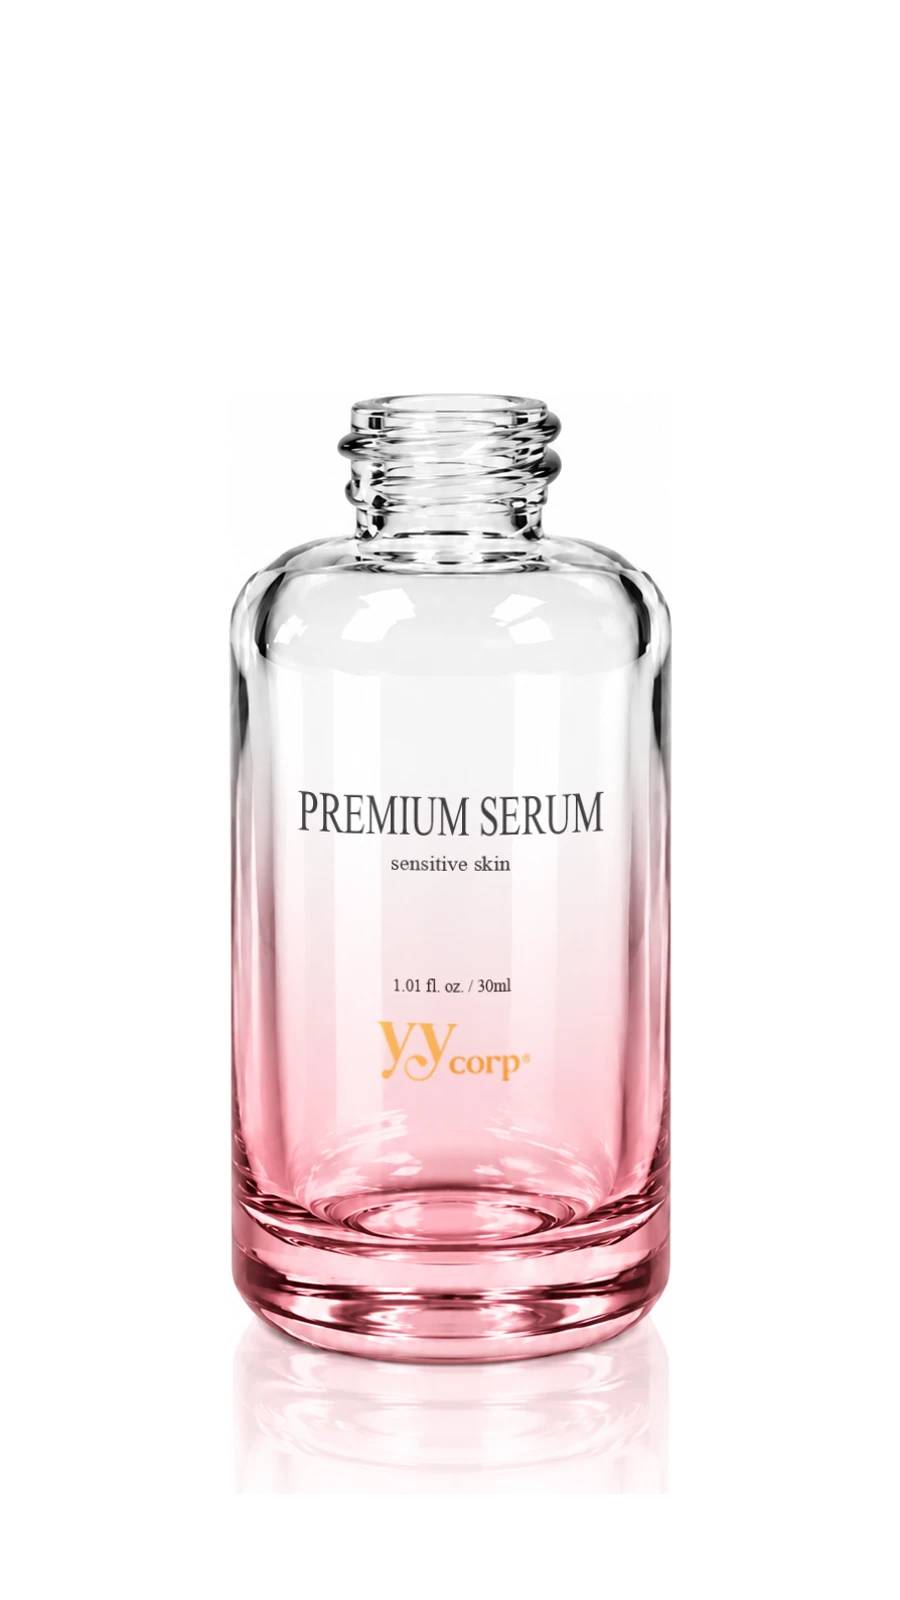
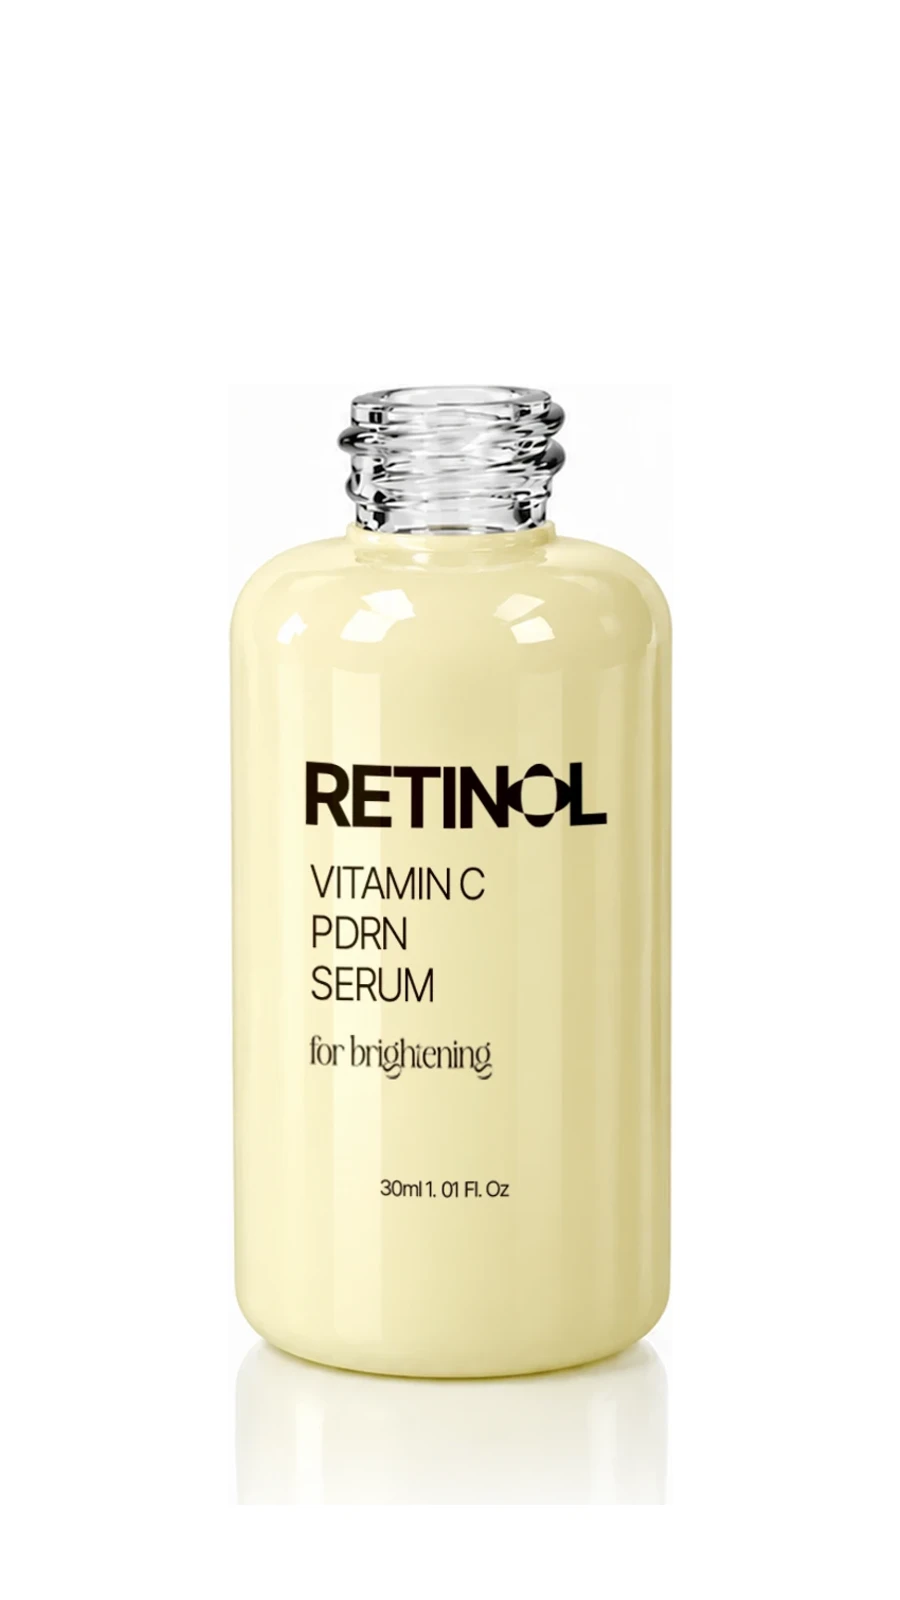
HOME 공정 모션 장면 사진 4장 교체(코팅 · 인쇄 · 부식 · 라벨), 라벨 구간 다시 잼

Changed region(s): [[0.2489, 0.2188, 0.7467, 0.9062]]

diff --git a/src/data/home.ts b/src/data/home.ts
@@ -56,7 +56,7 @@ export const processScene = {
   dropperCap: "dropperCap" as AssetId,
   dropperPipette: "dropperPipette" as AssetId,
   /** 라벨이 피펫을 가리는 구간(캔버스 높이 대비 %) — proc-label 실측 */
-  labelBand: { top: 48.8, bottom: 75.4 }, // proc-label(부식 후 라벨) 실측 780–1206행 — 라벨 이미지를 바꾸면 다시 잰다
+  labelBand: { top: 43.4, bottom: 74.7 }, // proc-label(부식 후 라벨) 실측 695–1195행(2026-10-28 CALMING 라벨) — 라벨 이미지를 바꾸면 다시 잰다
   /** 체결 후 함께 등장하는 실제 제품 (기준병 양옆) */
   expandTo: ["YS-SRRR15-01_02", "YS-SRRR30-02_01", "YS-SRRR30-04_01", "YS-SRRR50-02_01"] as AssetId[],
 };

diff --git a/docs/decisions.md b/docs/decisions.md
@@ -158,6 +158,7 @@
 | 2026-10-21 | 문의 폼 → 메일 앱 | Resend(사이트가 직접 발송) 제외 — 회사 도메인 인증이 어려움. 보내기 = mailto(회사 메일 · 제목 · 내용 채움), 주소 · 내용 복사 버튼. 문의 내용 최대 1,500자(메일 앱 주소 길이) |
 | 2026-10-21 | 정리 · 영상 | `/logo-check` · 미사용 코드(StageNotice · reference · about values/expertise · process onSite/additionalProcesses) 삭제. PROCESS 제목 영상 7MB(H.265 HDR) → 3.4MB(H.264): 8초 이후 · 화면에 보이던 1.25배 구간만 잘라 같은 화면 유지, 모든 브라우저 재생. 검색 노출 차단은 상업 사용 전까지 유지 |
 | 2026-10-21 | PRODUCT 필터 | 종류: GLASS BOTTLE → BOTTLE, JAR 추가(제품이 있어야 탭이 보임, 주소 값 glass-bottle은 유지). 용량(ml) 버튼 추가 — 그 종류 제품의 용량에서 자동 생성, ?ml= 주소에 남고 상세에서 돌아와도 유지 |
+| 2026-10-28 | HOME 공정 모션 사진 교체 | 코팅(노랑) · 코팅 후 인쇄(RETINOL) · 부식(무광) · 부식 후 라벨(CALMING) 4장 교체(생성 이미지, 1600×1600). 이전 원본은 자료/_보관/01_기준유리병/사진_2026-10-28. 어깨선 정렬 그대로, labelBand 43.4–74.7%로 다시 잼 |
 
 ## 브랜드 색 기준 (잠정)
 
